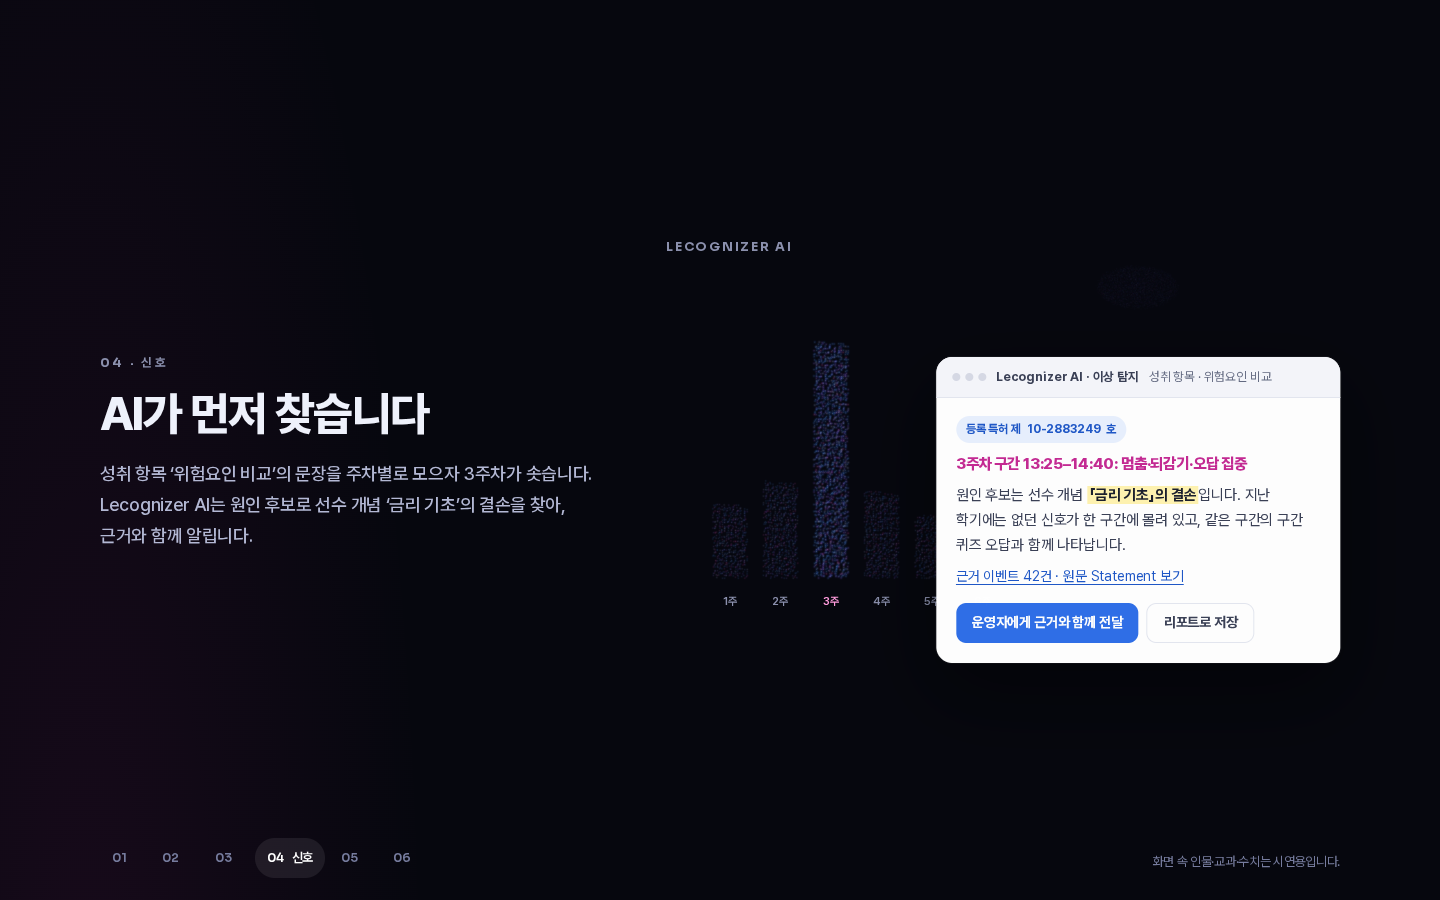
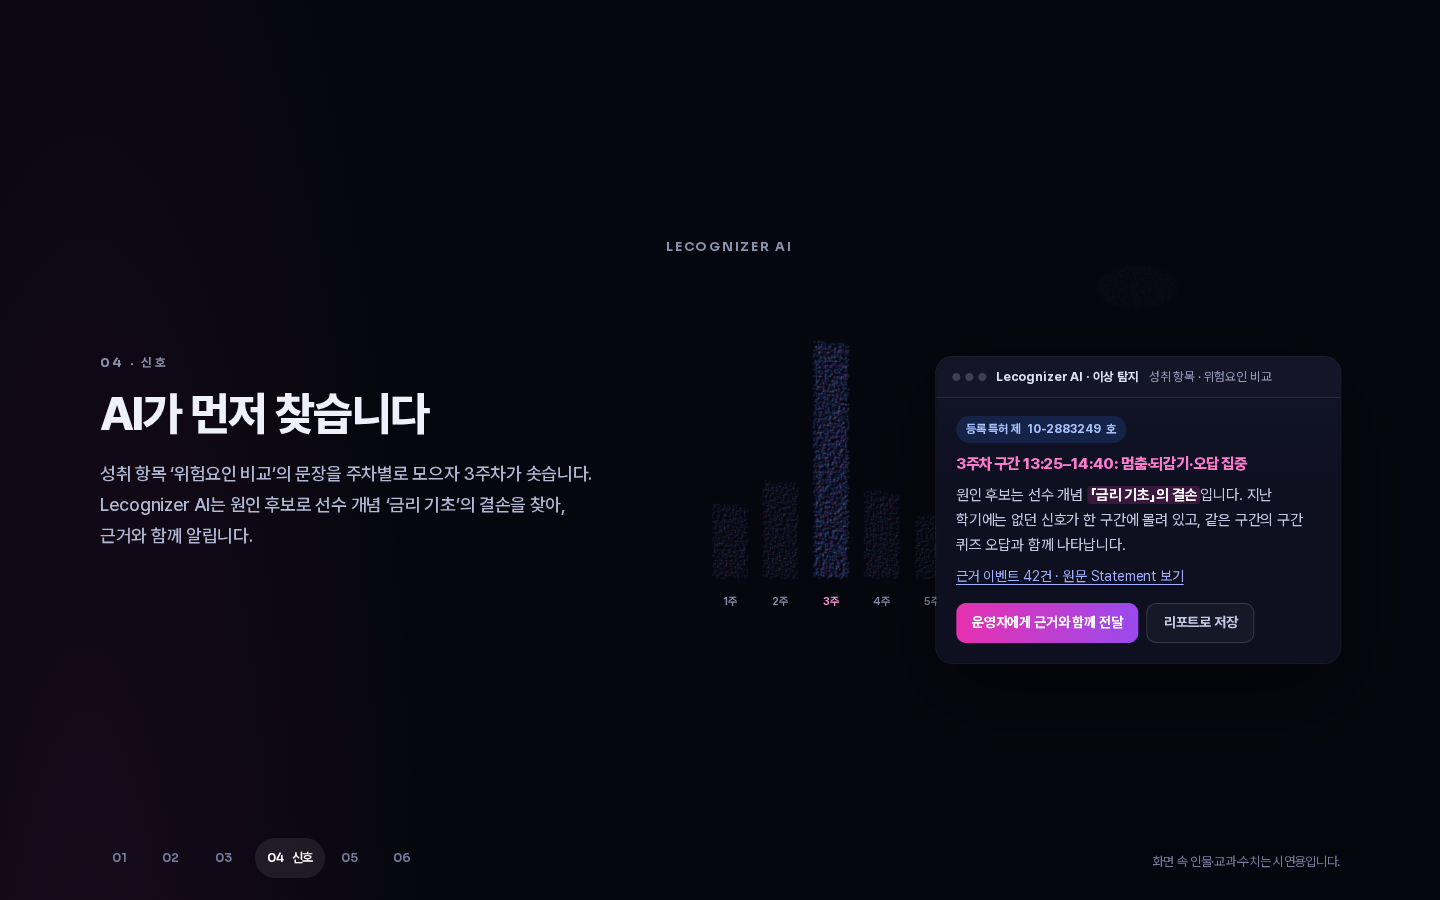
fix: 제품 화면 조각을 흰 배경에서 사이트의 어두운 패널 톤으로, 증빙 한 줄 2열
- 퀴즈·이상 탐지·교수자 개입·학습자 힌트를 패널 #0e1020 기준으로 다시 칠함
- 제품 색·강조색은 브랜드 팔레트 안에서만(Lecognizer 마젠타 쪽, LearnHubble AI 파랑 쪽, 강조 #a3b1ff)
- 증빙 한 줄이 줄바꿈될 때 구분선이 줄 끝에 남던 문제: 2열 목록으로
- 캡처 다시 찍음

Claude-Session: https://claude.ai/code/session_01HiwGZPdjCfWXJGFncaM8dB

Changed region(s): [[0.625, 0.3733, 0.9375, 0.7467]]

diff --git a/src/styles/fragments.css b/src/styles/fragments.css
@@ -1,25 +1,26 @@
-/* 제품 화면 조각: 실제 제품(Lecognizer·LearnHubble AI)의 밝은 화면을 HTML로 다시 그린 것.
+/* 제품 화면 조각: 실제 제품(Lecognizer·LearnHubble AI) 화면을 HTML로 다시 그린 것.
+   사이트와 같은 어두운 톤(패널 #0e1020)으로 그리고, 제품 색·강조색은 브랜드 팔레트 안에서만 쓴다.
    글자는 모두 HTML이라 네 언어로 바뀌고, 화면 낭독기가 읽는다. 버튼 모양은 장식(누를 수 없음, span).
-   화면 속 인물·교과·수치는 시연용. 색: 이상 신호는 Lecognizer 제품 색(마젠타 쪽), LearnHubble AI는 파랑 쪽 */
-.fx{--fx-bg:#fff;--fx-soft:#f5f6fb;--fx-ink:#1b1f2d;--fx-ink2:#3a4056;--fx-muted:#646b82;--fx-line:#e4e7f0;
-  --fx-lhb:linear-gradient(92deg,#5a48f0,#2f6fe8);--fx-lec:#2f6fe8;--fx-hot:#b8248a;--fx-hot-bg:#fdebf6;
-  position:relative;margin:0;border-radius:16px;background:var(--fx-bg);color:var(--fx-ink);font-family:var(--font);
-  box-shadow:0 30px 80px rgba(0,0,0,.45),0 0 0 1px rgba(255,255,255,.06);overflow:hidden;letter-spacing:-.01em;text-align:left}
+   화면 속 인물·교과·수치는 시연용. 이상 신호는 Lecognizer 쪽(마젠타), LearnHubble AI는 파랑 쪽 */
+.fx{--fx-bg:#0e1020;--fx-soft:#141628;--fx-ink:#eef1fb;--fx-ink2:#c7cbe6;--fx-muted:#9ba1c2;--fx-line:rgba(255,255,255,.09);
+  --fx-lhb:var(--grad-lhb);--fx-lec:var(--grad-lec);--fx-hot:#ff7ccf;--fx-hot-bg:rgba(233,48,176,.16);--fx-blue:#a8c3ff;
+  position:relative;margin:0;border-radius:16px;background:linear-gradient(180deg,#12142a,var(--fx-bg) 42%);color:var(--fx-ink);font-family:var(--font);
+  box-shadow:0 30px 80px rgba(0,0,0,.5),0 0 0 1px rgba(163,177,255,.16);overflow:hidden;letter-spacing:-.01em;text-align:left}
 .fx *{min-width:0}
 .fx-bar{display:flex;flex-wrap:wrap;align-items:center;gap:2px 10px;padding:10px 16px;border-bottom:1px solid var(--fx-line);background:var(--fx-soft);font-size:12.5px;color:var(--fx-muted)}
-.fx-bar b{flex:none;max-width:100%;white-space:nowrap;color:var(--fx-ink2);font-weight:700}
+.fx-bar b{flex:none;max-width:100%;white-space:nowrap;color:var(--ink-2);font-weight:700}
 .fx-bar>span:not(.fx-dots){flex:1 1 12em;text-wrap:balance}
 .fx-bar .fx-dots{display:inline-flex;gap:5px}
-.fx-bar .fx-dots i{width:8px;height:8px;border-radius:50%;background:#d7dae6}
+.fx-bar .fx-dots i{width:8px;height:8px;border-radius:50%;background:rgba(255,255,255,.18)}
 .fx-body{padding:18px 20px 20px}
 .fx-row{display:flex;align-items:center;justify-content:space-between;gap:10px;flex-wrap:wrap}
 .fx-h{font-size:17px;font-weight:800;letter-spacing:-.02em;color:var(--fx-ink)}
 .fx-sub{font-size:13px;color:var(--fx-muted)}
-.fx-tag{display:inline-block;font-size:12.5px;font-weight:700;color:#4b3fd6}
-.fx-chip{display:inline-flex;align-items:center;gap:6px;padding:4px 10px;border-radius:999px;font-size:12px;font-weight:700;background:#eef0fe;color:#3b33b8}
+.fx-tag{display:inline-block;font-size:12.5px;font-weight:700;color:var(--accent)}
+.fx-chip{display:inline-flex;align-items:center;gap:6px;padding:4px 10px;border-radius:999px;font-size:12px;font-weight:700;background:rgba(163,177,255,.14);color:#cdd5ff}
 .fx-chip.hot{background:var(--fx-hot-bg);color:var(--fx-hot)}
-.fx-chip.blue{background:#e8f0fe;color:#1f58c7}
-.fx-btn{display:inline-flex;align-items:center;justify-content:center;min-height:40px;padding:0 16px;border-radius:10px;font-size:14px;font-weight:700;border:1px solid var(--fx-line);color:var(--fx-ink2);background:#fff}
+.fx-chip.blue{background:rgba(47,124,255,.16);color:var(--fx-blue)}
+.fx-btn{display:inline-flex;align-items:center;justify-content:center;min-height:40px;padding:0 16px;border-radius:10px;font-size:14px;font-weight:700;border:1px solid var(--line2);color:var(--fx-ink2);background:rgba(255,255,255,.03)}
 .fx-btn.p{border:0;background:var(--fx-lhb);color:#fff}
 .fx-btn.lec{border:0;background:var(--fx-lec);color:#fff}
 .fx p{text-wrap:pretty}
@@ -27,17 +28,15 @@
 /* 1. 강의실 구간 퀴즈 */
 .fx-quiz .fx-q{margin:8px 0 14px;font-size:16.5px;font-weight:700;line-height:1.45}
 .fx-quiz ol{list-style:none;display:grid;gap:8px}
-.fx-quiz li{padding:11px 14px;border-radius:10px;border:1px solid var(--fx-line);font-size:14.5px;line-height:1.45;color:var(--fx-ink2)}
-.fx-quiz li.pick{border-color:#8f84f5;background:#f1efff;color:var(--fx-ink);font-weight:600}
-.fx-quiz li.pick.wrong{border-color:#e7a6cf;background:var(--fx-hot-bg)}
+.fx-quiz li{padding:11px 14px;border-radius:10px;border:1px solid var(--fx-line);background:rgba(255,255,255,.03);font-size:14.5px;line-height:1.45;color:var(--fx-ink2)}
+.fx-quiz li.pick{border-color:rgba(124,77,255,.7);background:rgba(124,77,255,.14);color:var(--fx-ink);font-weight:600}
+.fx-quiz li.pick.wrong{border-color:rgba(233,48,176,.6);background:var(--fx-hot-bg)}
 .fx-quiz .fx-actions{display:grid;grid-template-columns:1fr 1fr;gap:10px;margin-top:14px}
 .fx-quiz .fx-verdict{display:none;margin-top:10px}
 .fx-quiz.answered .fx-verdict{display:block}
 
 /* 2. xAPI 문장 */
-.fx-stmt{background:#0f1224;color:#e8eaf6;box-shadow:0 30px 80px rgba(0,0,0,.5),0 0 0 1px rgba(163,177,255,.25)}
-.fx-stmt .fx-bar{background:#151936;border-color:rgba(255,255,255,.08);color:#a8aecb}
-.fx-stmt .fx-bar b{color:#dfe3f7}
+.fx-stmt{box-shadow:0 30px 80px rgba(0,0,0,.5),0 0 0 1px rgba(163,177,255,.25)}
 .fx-stmt dl{display:grid;gap:8px;padding:18px 20px 12px;font-family:var(--mono)}
 .fx-stmt dl>div{display:grid;grid-template-columns:5.2em 1fr;gap:12px;align-items:baseline;padding:10px 12px;border-radius:10px;background:rgba(255,255,255,.05);box-shadow:inset 0 0 0 1px rgba(255,255,255,.08)}
 .fx-stmt dt{font-size:13px;color:#a3b1ff}
@@ -51,40 +50,61 @@
 .fx-anom .fx-grid{display:grid;grid-template-columns:minmax(0,.9fr) minmax(0,1.1fr);gap:22px;align-items:start}
 .fx-chart{position:relative;padding-top:26px}
 .fx-bars{list-style:none;display:grid;grid-template-columns:repeat(6,1fr);align-items:end;gap:10px;height:140px;border-bottom:1px solid var(--fx-line)}
-.fx-bars li{position:relative;height:var(--h);border-radius:5px 5px 0 0;background:#5d7be8}
-.fx-bars li.hot{background:var(--fx-hot)}
+.fx-bars li{position:relative;height:var(--h);border-radius:5px 5px 0 0;background:linear-gradient(180deg,rgba(163,177,255,.55),rgba(163,177,255,.22))}
+.fx-bars li.hot{background:linear-gradient(180deg,#e930b0,#9a4bf0);box-shadow:0 0 24px rgba(233,48,176,.35)}
 .fx-bars li.hot .fx-chip{position:absolute;left:50%;bottom:calc(100% + 6px);transform:translateX(-50%);white-space:nowrap}
 .fx-weeks{display:grid;grid-template-columns:repeat(6,1fr);gap:10px;margin-top:6px;text-align:center;font-size:12.5px;color:var(--fx-muted)}
 .fx-weeks .hot{color:var(--fx-hot);font-weight:800}
 .fx-anom .fx-cap{margin-top:8px;font-size:12.5px;color:var(--fx-muted)}
 .fx-anom .fx-headline{font-size:15.5px;font-weight:800;color:var(--fx-hot);line-height:1.4}
 .fx-anom .fx-text{margin-top:8px;font-size:15px;line-height:1.65;color:var(--fx-ink2)}
-.fx-anom mark{background:#fff3b0;color:var(--fx-ink);font-weight:700;padding:0 2px}
-.fx-anom .fx-ev{display:inline-block;margin-top:8px;font-size:14px;color:#1f58c7;text-decoration:underline;text-underline-offset:3px}
+.fx-anom mark{background:rgba(233,48,176,.2);color:#fff;font-weight:700;padding:0 3px;border-radius:3px}
+.fx-anom .fx-ev{display:inline-block;margin-top:8px;font-size:14px;color:var(--accent);text-decoration:underline;text-underline-offset:3px}
 .fx-anom .fx-actions{display:flex;flex-wrap:wrap;gap:8px;margin-top:14px}
 .fx-anom .fx-patent{text-decoration:none}
 .fx-anom a.fx-patent:hover{text-decoration:underline}
 
 /* 4. 교수자 학습 개입 */
-.fx-judge .fx-ai{margin-top:14px;padding:14px 16px;border-radius:12px;background:#f3f1ff;border:1px solid #dcd6ff}
+.fx-judge .fx-ai{margin-top:14px;padding:14px 16px;border-radius:12px;background:rgba(124,77,255,.12);border:1px solid rgba(124,77,255,.4)}
 .fx-judge .fx-ai p{font-size:15px;font-weight:700;line-height:1.5;color:var(--fx-ink)}
 .fx-judge .fx-ai small{display:block;margin-top:6px;font-size:13.5px;line-height:1.5;color:var(--fx-ink2)}
 .fx-judge ol{list-style:none;display:grid;gap:0;margin-top:14px;border-top:1px solid var(--fx-line)}
 .fx-judge li{display:grid;grid-template-columns:30px 1fr;gap:10px;padding:10px 0;border-bottom:1px solid var(--fx-line);align-items:center}
-.fx-judge li i{display:grid;place-items:center;width:28px;height:28px;border-radius:50%;background:#fdeaf4;color:var(--fx-hot);font-style:normal;font-weight:800;font-size:13px}
+.fx-judge li i{display:grid;place-items:center;width:28px;height:28px;border-radius:50%;background:var(--fx-hot-bg);color:var(--fx-hot);font-style:normal;font-weight:800;font-size:13px}
 .fx-judge li b{font-size:14.5px}
 .fx-judge li span{display:block;font-size:13px;color:var(--fx-muted);line-height:1.45;text-wrap:balance}
 .fx-judge .fx-actions{display:flex;flex-wrap:wrap;justify-content:flex-end;gap:8px;margin-top:14px}
 .fx-judge .fx-owner{margin-top:10px;font-size:13px;color:var(--fx-muted);text-align:right}
 
 /* 5. 학습자 AI 힌트 */
-.fx-hint .fx-panel{margin-top:14px;padding:14px 16px;border-radius:12px;background:#f1f5ff;border:1px solid #d6e2ff}
-.fx-hint .fx-panel b{display:inline-flex;align-items:center;gap:6px;font-size:13px;color:#1f58c7}
+.fx-hint .fx-panel{margin-top:14px;padding:14px 16px;border-radius:12px;background:rgba(47,124,255,.1);border:1px solid rgba(47,124,255,.38)}
+.fx-hint .fx-panel b{display:inline-flex;align-items:center;gap:6px;font-size:13px;color:var(--fx-blue)}
 .fx-hint .fx-panel b::before{content:"";width:14px;height:14px;border-radius:4px;background:var(--fx-lhb)}
 .fx-hint .fx-panel p{margin-top:6px;font-size:15px;line-height:1.6;color:var(--fx-ink)}
 .fx-hint .fx-panel small{display:block;margin-top:6px;font-size:12.5px;color:var(--fx-muted)}
 .fx-hint .fx-done{position:relative;margin-top:12px;padding-left:24px;font-size:13.5px;color:var(--fx-ink2)}
-.fx-hint .fx-done::before{content:"";position:absolute;left:0;top:calc(.75em - 8px);width:16px;height:16px;border-radius:50%;background:#dfe6ff;box-shadow:inset 0 0 0 4px #5a74f0}
+.fx-hint .fx-done::before{content:"";position:absolute;left:0;top:calc(.75em - 8px);width:16px;height:16px;border-radius:50%;background:transparent;box-shadow:inset 0 0 0 4px var(--accent)}
+
+/* 6. Statement 실시간 목록 */
+.fx-stream .fx-live{flex:none !important;margin-left:auto;display:inline-flex;align-items:center;gap:6px;font-weight:700;color:var(--accent)}
+.fx-stream .fx-live::before{content:"";width:7px;height:7px;border-radius:50%;background:var(--accent);box-shadow:0 0 10px var(--accent)}
+.fx-stream table{width:100%;border-collapse:collapse;font-size:14px;color:var(--fx-ink2)}
+.fx-stream th{padding:0 8px 8px 0;font-size:12.5px;font-weight:700;color:var(--fx-muted);text-align:left;border-bottom:1px solid var(--fx-line)}
+.fx-stream td{padding:10px 8px 10px 0;border-bottom:1px solid var(--fx-line);vertical-align:middle}
+.fx-stream tbody tr:first-child td{background:linear-gradient(90deg,rgba(163,177,255,.1),transparent)}
+.fx-stream .tm{font-family:var(--mono);font-size:13px;color:var(--fx-muted);white-space:nowrap}
+.fx-stream .vb{font-family:var(--mono);font-size:13px;white-space:nowrap}
+.fx-stream .vb i{display:inline-block;width:8px;height:8px;margin-right:7px;border-radius:50%;vertical-align:1px}
+.fx-stream .fx-cap{margin-top:10px;font-size:12.5px;color:var(--fx-muted)}
+@media (max-width:699px){
+  .fx-stream thead{display:none}
+  .fx-stream tr{display:grid;grid-template-columns:auto 1fr;column-gap:12px;padding:10px 0;border-bottom:1px solid var(--fx-line)}
+  .fx-stream td{padding:0;border:0}
+  .fx-stream tbody tr:first-child td{background:none}
+  .fx-stream td:nth-child(2){font-weight:700;color:var(--fx-ink)}
+  .fx-stream td:nth-child(4){grid-column:2}
+  .fx-stream .vb{grid-column:1;grid-row:2}
+}
 
 @media (max-width:699px){
   .fx-body{padding:16px}

diff --git a/src/styles/story.css b/src/styles/story.css
@@ -26,9 +26,9 @@
 .scene-moment h1 .line{display:block}
 .hero-lead{margin-top:26px;color:#b9bed6;font-size:clamp(15.5px,1.3vw,18px);font-weight:500}
 .hero-cta{display:flex;gap:14px;margin-top:36px;flex-wrap:wrap}
-.hero-trust{list-style:none;display:flex;flex-wrap:wrap;align-items:center;row-gap:4px;margin-top:32px;color:var(--muted);font-size:13.5px;font-family:var(--en);font-weight:600}
-.hero-trust li{display:inline-flex;align-items:center}
-.hero-trust li:not(:last-child)::after{content:"";width:1px;height:14px;background:var(--line2);margin:0 18px}
+.hero-trust{list-style:none;display:grid;grid-template-columns:repeat(2,max-content);column-gap:28px;margin-top:28px;color:var(--muted);font-size:13.5px;font-family:var(--en);font-weight:600}
+.hero-trust li{display:flex;align-items:center;gap:9px}
+.hero-trust li::before{content:"";flex:none;width:6px;height:6px;border-radius:50%;background:var(--accent);opacity:.8}
 .hero-trust a{display:inline-block;padding:11px 0;line-height:22px;color:var(--muted);text-decoration:underline;text-decoration-color:var(--line3);text-underline-offset:4px;transition:color .2s}
 .hero-trust a:hover{color:#fff;text-decoration-color:var(--accent)}
 .hero-trust b{color:var(--ink-2)}
@@ -101,8 +101,7 @@ html.story-pin .loop-art figcaption{display:table;margin-left:auto;padding:4px 1
   .scene{padding:56px 0}
   .scene-moment{padding-top:calc(var(--header-h) + 28px)}
   .hero-cta .btn{flex:1 1 auto}
-  .hero-trust{flex-direction:column;align-items:flex-start;row-gap:0}
-  .hero-trust li:not(:last-child)::after{display:none}
+  .hero-trust{grid-template-columns:1fr}
   .stmt-pair{grid-template-columns:1fr;gap:0}
   .stmt-link{width:2px;height:24px;margin-left:28px;background:linear-gradient(180deg,rgba(233,48,176,.9),rgba(124,77,255,.9))}
   .art-bars .fx-anom .fx-grid{grid-template-columns:1fr}

diff --git a/docs/phase-2/PR.md b/docs/phase-2/PR.md
@@ -23,7 +23,7 @@
   3. 미리 그린 SVG(900개): 빌드 때 그림. 폰, 움직임 줄이기, JS 없음
 - WebGL 셰이더는 `place()`와 같은 규칙을 옮긴 것입니다.
 
-## 제품 화면(HTML로 다시 그림)
+## 제품 화면(HTML로 다시 그림, 사이트와 같은 어두운 톤)
 `src/components/fragments/`: 강의실 퀴즈, xAPI Statement, Lecognizer AI 이상 탐지(특허 번호 칩은 특허 원문 링크), LearnHubble AI 교수자 개입, 학습자 AI 힌트. 버튼 모양은 장식이라 누를 수 없습니다(span). 화면 속 인물·교과·수치는 시연용이라고 장면 아래에 적었습니다.
 
 ## 접근성
